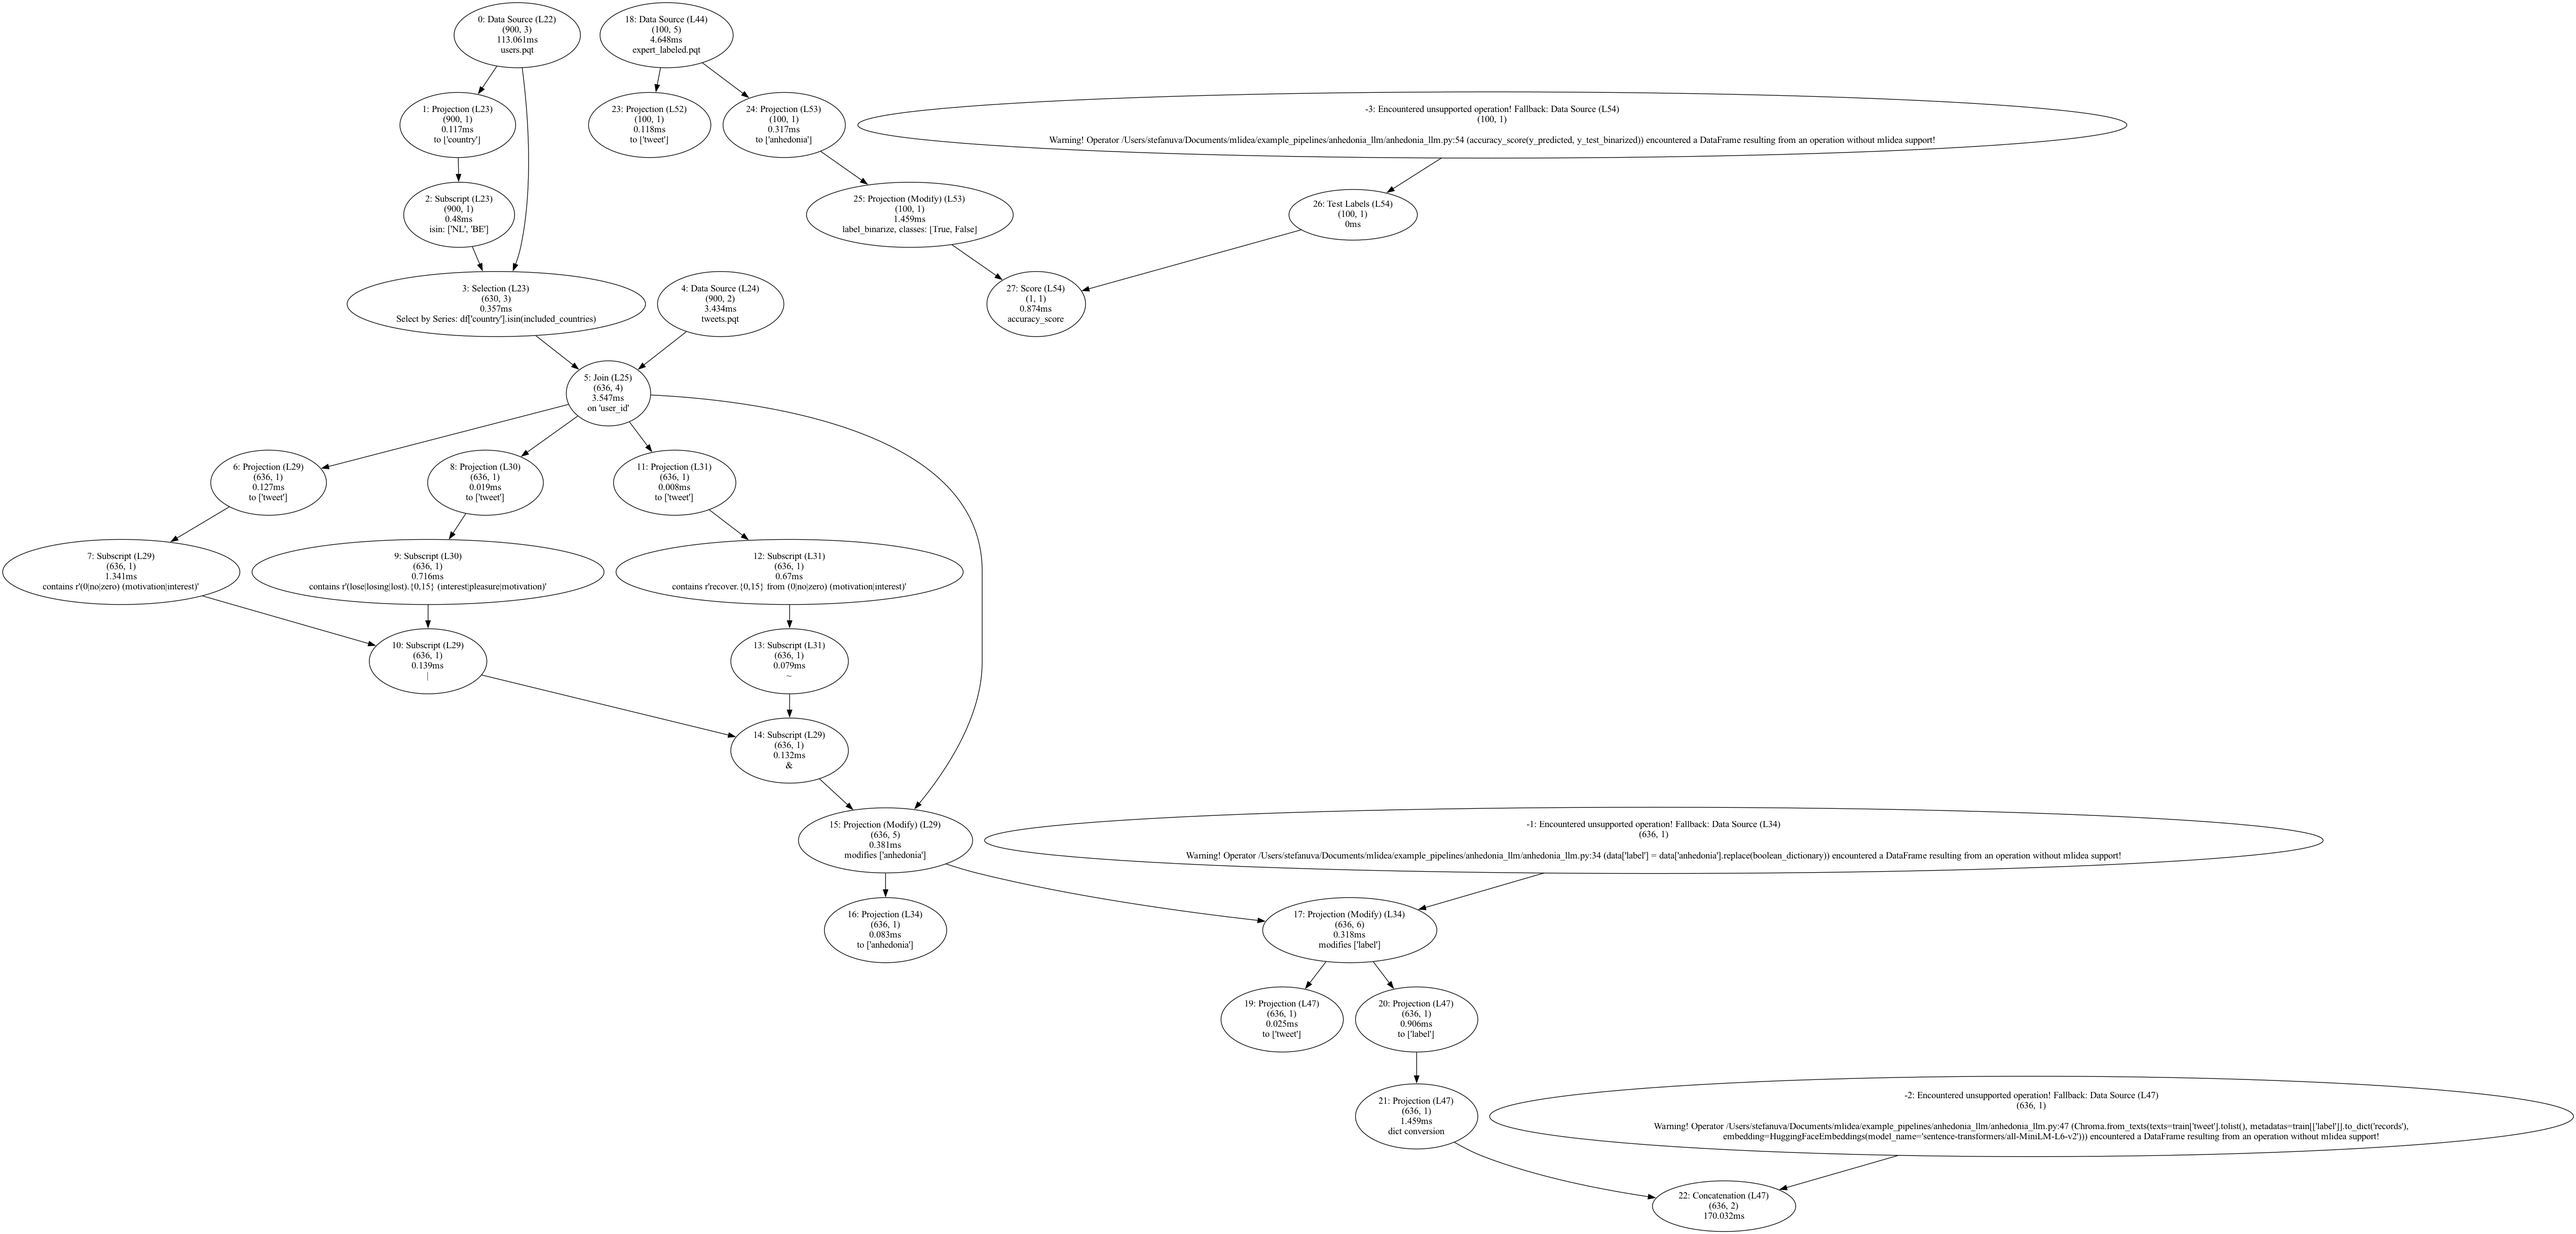
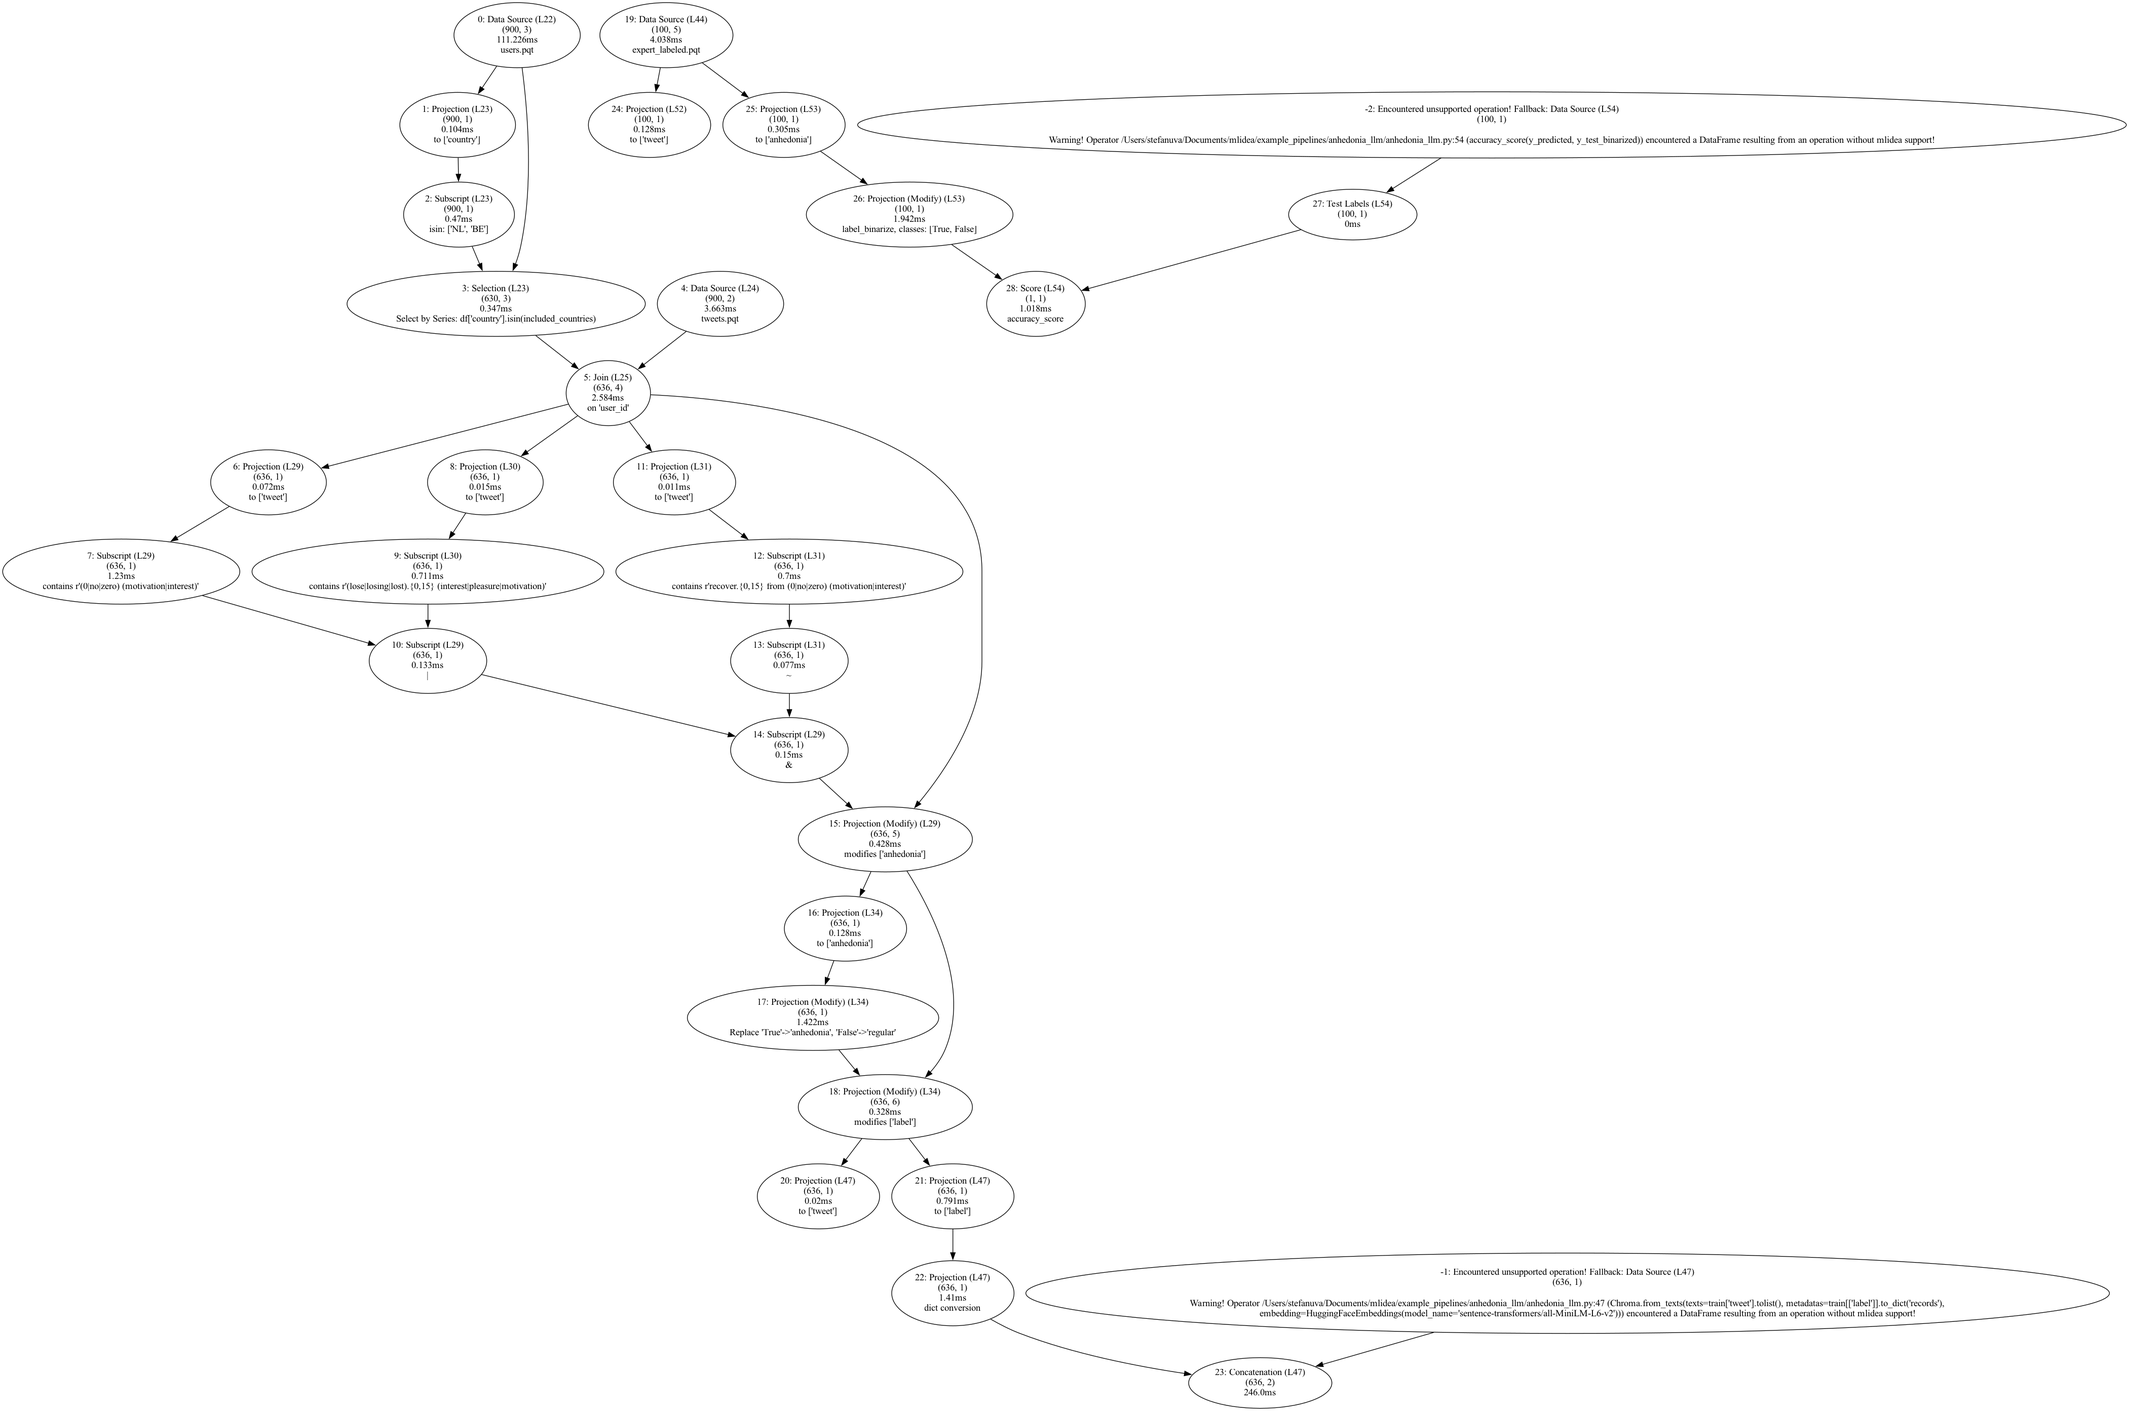
Progress

diff --git a/test/monkeypatching/test_patch_pandas.py b/test/monkeypatching/test_patch_pandas.py
@@ -70,7 +70,8 @@ def test_read_parquet():
     extracted_node: DagNode = list(inspector_result.original_dag.nodes)[0]
     expected_node = DagNode(0,
                             BasicCodeLocation("<string-source>", 6),
-                            OperatorContext(OperatorType.DATA_SOURCE, FunctionInfo('pandas.io.parsers', 'read_parquet')),
+                            OperatorContext(OperatorType.DATA_SOURCE,
+                                            FunctionInfo('pandas.io.parsers', 'read_parquet')),
                             DagNodeDetails(StringComparison(r".*\.pqt"),
                                            ['user_id', 'lang', 'country'],
                                            OptimizerInfo(RangeComparison(0, 100000), (900, 3),
@@ -1214,6 +1215,53 @@ def test_series__logical_method():
     pandas.testing.assert_series_equal(extracted_func_result.reset_index(drop=True), expected.reset_index(drop=True))
 
 
+def test_series_replace():
+    """
+    Tests whether the monkey patching of ('pandas.core.series', 'replace') works
+    """
+    test_code = cleandoc("""
+                import pandas as pd
+                mask1 = pd.Series([True, False, True, True], name='A')
+                boolean_dictionary = {True: 'anhedonia', False: 'regular'}
+                result = mask1.replace(boolean_dictionary)
+                pd.testing.assert_series_equal(result, pd.Series(['anhedonia', 'regular', 'anhedonia', 'anhedonia'], 
+                    name='A'))
+                """)
+
+    inspector_result = _pipeline_executor.singleton.run(python_code=test_code, track_code_references=True)
+    inspector_result.original_dag.remove_node(list(inspector_result.original_dag.nodes)[2])
+
+    expected_dag = networkx.DiGraph()
+    expected_data_source1 = DagNode(0,
+                                    BasicCodeLocation("<string-source>", 2),
+                                    OperatorContext(OperatorType.DATA_SOURCE,
+                                                    FunctionInfo('pandas.core.series', 'Series')),
+                                    DagNodeDetails(None, ['A'], OptimizerInfo(RangeComparison(0, 200), (4, 1),
+                                                                              RangeComparison(0, 800))),
+                                    OptionalCodeInfo(CodeReference(2, 8, 2, 54),
+                                                     "pd.Series([True, False, True, True], name='A')"),
+                                    Comparison(partial))
+    expected_replace = DagNode(1,
+                               BasicCodeLocation("<string-source>", 4),
+                               OperatorContext(OperatorType.PROJECTION_MODIFY,
+                                               FunctionInfo('pandas.core.series', 'replace')),
+                               DagNodeDetails("Replace 'True'->'anhedonia', 'False'->'regular'", ['A'],
+                                              OptimizerInfo(RangeComparison(0, 200), (4, 1),
+                                                            RangeComparison(0, 800))),
+                               OptionalCodeInfo(CodeReference(4, 9, 4, 42),
+                                                "mask1.replace(boolean_dictionary)"),
+                               Comparison(FunctionType))
+    expected_dag.add_edge(expected_data_source1, expected_replace, arg_index=0)
+
+    compare(networkx.to_dict_of_dicts(inspector_result.original_dag), networkx.to_dict_of_dicts(expected_dag))
+
+    extracted_node = list(inspector_result.original_dag.nodes)[1]
+    pd_series1 = pandas.Series([True, False, True, False], name='C')
+    extracted_func_result = extracted_node.processing_func(pd_series1)
+    expected = pandas.Series(['anhedonia', 'regular', 'anhedonia', 'regular'], name='C')
+    pandas.testing.assert_series_equal(extracted_func_result.reset_index(drop=True), expected.reset_index(drop=True))
+
+
 def test_series__invert__():
     """
     Tests whether the monkey patching of ('pandas.core.series', '__invert__') works
@@ -1468,7 +1516,7 @@ def test_series_str_contains():
                             OperatorContext(OperatorType.SUBSCRIPT,
                                             FunctionInfo('pandas.core.strings.StringMethods', 'contains')),
                             DagNodeDetails("contains r'^(a|c)*$'", ['A'], OptimizerInfo(RangeComparison(0, 200), (4, 1),
-                                                                                     RangeComparison(0, 800))),
+                                                                                        RangeComparison(0, 800))),
                             OptionalCodeInfo(CodeReference(5, 7, 5, 48), 'pd_series.str.contains(regex, regex=True)'),
                             Comparison(FunctionType))
     expected_dag.add_edge(expected_data_source, expected_isin, arg_index=0)

diff --git a/mlidea/monkeypatching/_patch_pandas.py b/mlidea/monkeypatching/_patch_pandas.py
@@ -814,6 +814,46 @@ class SeriesPatching:
 
         return execute_patched_func(original, execute_inspections, self, **func_args)
 
+    @gorilla.name('replace')
+    @gorilla.settings(allow_hit=True)
+    def patched_replace(self, *args, **kwargs):
+        """ Patch for ('pandas.core.frame', 'replace') """
+        original = gorilla.get_original_attribute(pandas.Series, 'replace')
+
+        def execute_inspections(op_id, caller_filename, lineno, optional_code_reference, optional_source_code):
+            """ Execute inspections, add DAG node """
+            function_info = FunctionInfo('pandas.core.series', 'replace')
+
+            input_info = get_input_info(self, caller_filename, lineno, function_info, optional_code_reference,
+                                        optional_source_code)
+            operator_context = OperatorContext(OperatorType.PROJECTION_MODIFY, function_info)
+            # No input_infos copy needed because it's only a selection and the rows not being removed don't change
+            initial_func = partial(original, input_info.annotated_dfobject.result_data, *args, **kwargs)
+            optimizer_info, result = capture_optimizer_info(initial_func, self)
+            if isinstance(args[0], dict):
+                replacement_items = list(args[0].items())[1:]
+                to_replace, replacement = list(args[0].items())[0]
+                description = f"Replace '{to_replace}'->'{replacement}'"
+                for to_replace, replacement in replacement_items:
+                    description += f", '{to_replace}'->'{replacement}'"
+            else:
+                description = f"Replace '{args[0]}' with '{args[1]}'"
+            processing_func = lambda df: original(df, *args, **kwargs)
+            dag_node = DagNode(op_id,
+                               BasicCodeLocation(caller_filename, lineno),
+                               operator_context,
+                               DagNodeDetails(description, [self.name], optimizer_info),
+                               get_optional_code_info_or_none(optional_code_reference, optional_source_code),
+                               processing_func)
+
+            function_call_result = FunctionCallResult(result)
+            add_dag_node(dag_node, [input_info.dag_node], function_call_result)
+            new_result = function_call_result.function_result
+
+            return new_result
+
+        return execute_patched_func(original, execute_inspections, self, *args, **kwargs)
+
     @gorilla.name('isin')
     @gorilla.settings(allow_hit=True)
     def patched_isin(self, *args, **kwargs):
